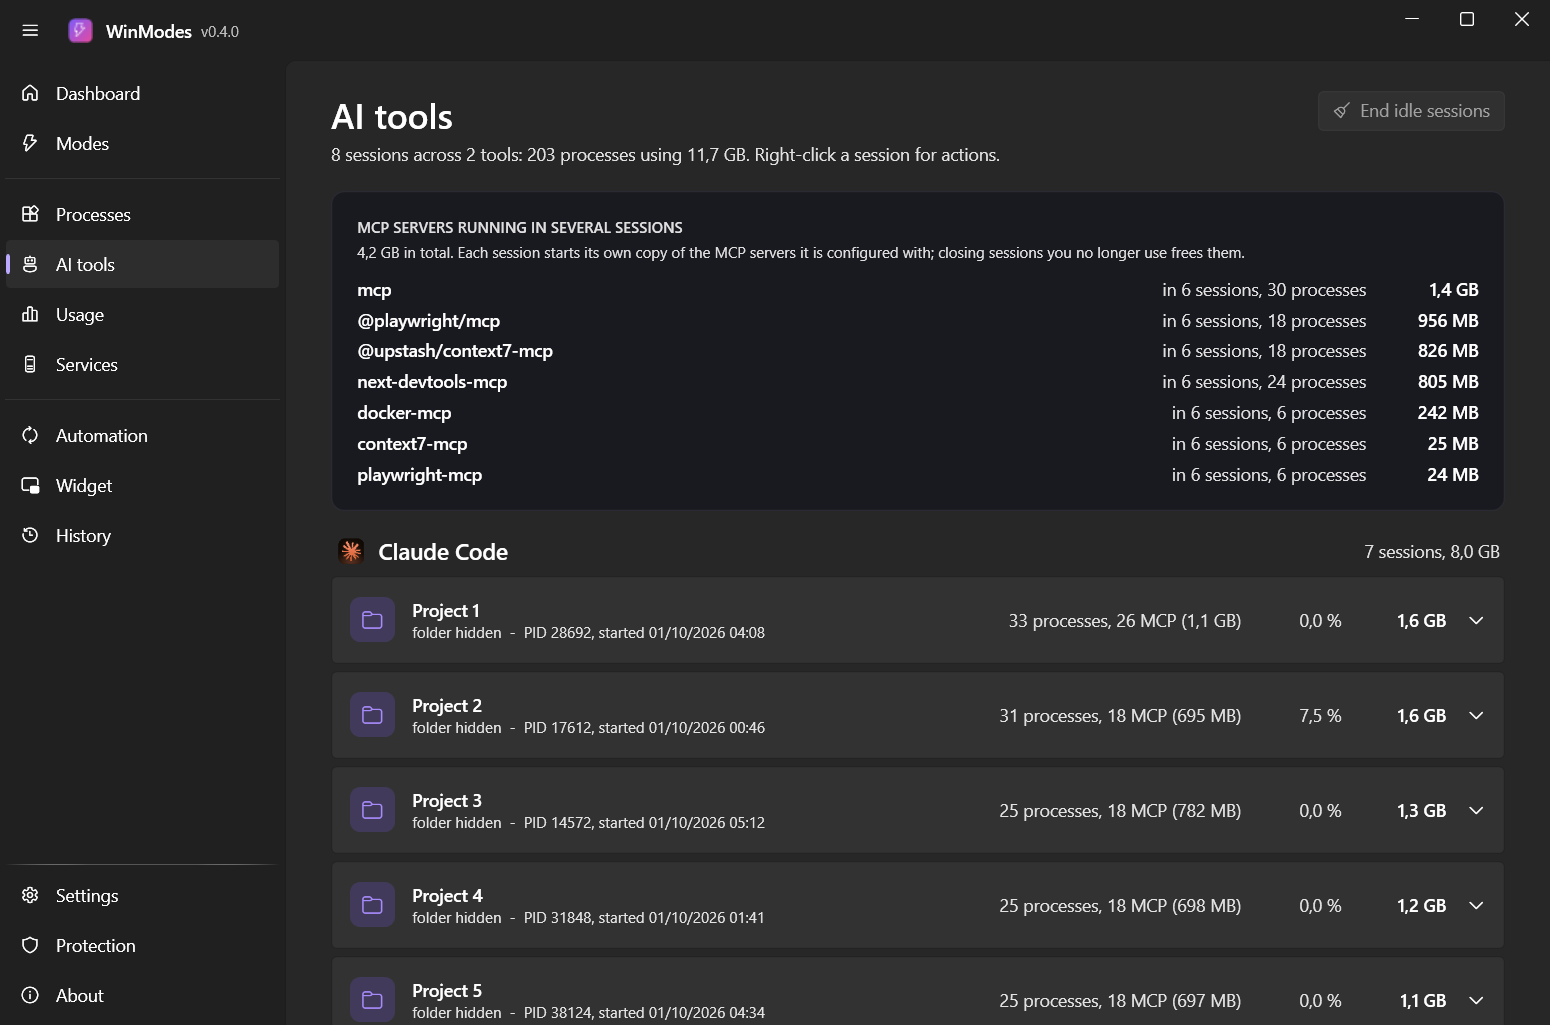
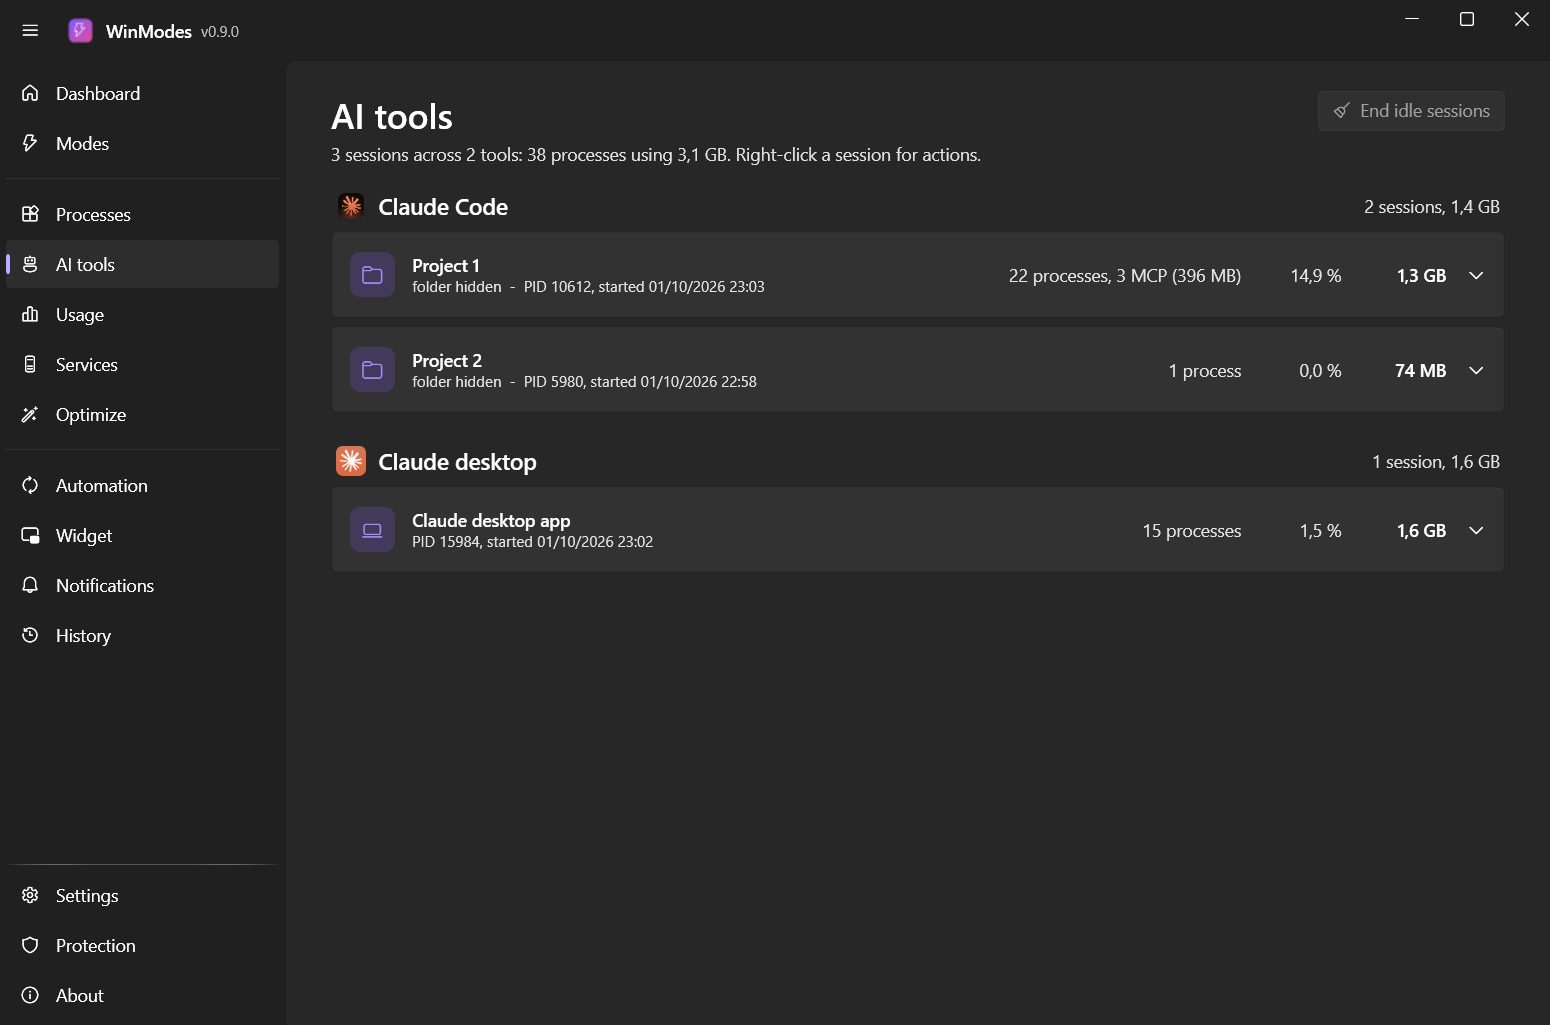
Update the README and the screenshots for 0.9
New screenshots, taken in privacy mode, of the Optimize, Usage, Notifications and About
pages, of the Widget plan usage settings and of the hover cards on the taskbar widget; the
other pages are taken again. The text now covers the plan usage, the hover cards, the token
statistics, the notifications, the signed updates and the support file, and drops two
limitations that are no longer true.

diff --git a/README.md b/README.md
@@ -4,6 +4,8 @@ Reversible Windows 11 modes for coding, work and gaming.
 
 WinModes switches your PC between modes (Code, Work, Game) to free memory and cut background load, without the usual damage of "debloat" tools: nothing is uninstalled, no security feature is weakened, and every switch can be undone.
 
+It also watches the AI coding tools you run: what each one costs in memory, how much of your Claude Code and Codex plans is left, and how many tokens they used.
+
 ![Dashboard](images/dashboard.png)
 
 > **Status: early version.** It works on the author's machine and is covered by automated tests, but it has not been tested on many PCs. Read [Safety](#safety) before activating a mode.
@@ -20,17 +22,26 @@ WinModes switches your PC between modes (Code, Work, Game) to free memory and cu
 - **AI tools page**: every running session of Claude Code, Claude desktop, Codex, Cursor, VS Code and others, with the project folder it works in and all the processes it started.
 - **Services page**: search, filters, real app icons, and a lock on everything that is protected; a right-click starts, stops or changes the start type of a service that is not protected.
 - **Optimize page**: 28 Windows settings by category (privacy and telemetry, ads and suggestions, search and AI, gaming, background, Explorer) and the services worth starting only when needed. Each row shows whether it is already applied on your PC and how many of 12 surveyed open-source optimizers ship the same setting. You choose what to apply; WinModes records the current value first and Undo puts it back. Settings that weaken security or updates are not in the catalog and are refused by the engine. Nothing is uninstalled or deleted.
-- **Usage page** (optional, off by default): how much memory each AI tool used per project over the last day, week or month. Stored on your PC only.
+- **Usage page** (optional, off by default): the **tokens** Claude Code and Codex used (total, new input, output, cache, per day, per model and per project) and how much **memory** each AI tool held per project, over the last day, week or month. The tokens are counted from the usage figures in the logs of the two tools, never from the text of a conversation; everything stays on your PC.
 - **MCP servers in double**: the AI tools page shows the MCP servers that several sessions each started, and the memory they hold together.
 - **Idle sessions**: flagged after 30 minutes without CPU use; end them by hand, or let WinModes do it after a delay you choose (off by default).
 - **Automation** (optional, off by default): rules such as "when `cs2.exe` runs, activate Game mode", "on battery, activate Work mode" or "from 09:00 to 18:00, activate Code mode", undone when the rule no longer applies.
-- **Tray meter and desktop widget** (both optional): the notification-area icon can show the memory used by AI tools, and a small panel on the desktop shows CPU, memory, network and AI tools. The Widget page sets its content, size, opacity and position, with a live preview; the widget can be one compact line, show small graphs, and hide during full-screen apps.
+- **Taskbar and desktop widget** (both optional): a small panel next to your app icons (or on the desktop) shows the active mode, CPU, memory, network, the memory used by AI tools and the **plan usage of Claude Code and Codex**: 5 hour and weekly limits, the weekly limit of a model that has its own, and the limit resets kept in reserve. It uses the free room of the taskbar whether the icons are centred or on the left, shows less when there is little room, follows an auto-hide taskbar and can hide during full-screen apps. The notification-area icon can also show the memory used by AI tools.
+- **Hover cards**: rest the mouse on Claude, Codex or the AI tools figure and a card opens after a moment with each limit, a coloured bar and the time it resets, or with what each AI tool uses. It never takes the mouse or the focus.
+- **Plan usage, read reliably**: from the status line of Claude Code and the files of Codex, or online. Signing in to a "WinModes account" in your browser gives a session of its own, renewed by itself, that never touches the sign-in of the tools. If the usage does not appear, the *Check Claude Code* and *Check Codex* buttons say what is missing.
+- **Notifications** (all optional, with a master switch and quiet hours): a plan limit running low, reached, available again or a limit reset added to your reserve; the memory of AI tools; an idle session ended; a mode switch; a new release; a sign-in that expired. Each one is sent once per cycle and remembered across restarts, so a limit left at 0 % does not ring at every start.
 - **Privacy mode**: hides project names, folders, command-line details and your account name, for screen sharing and screenshots.
-- **Updates**: WinModes checks the GitHub releases at startup (can be turned off); an installed copy can download the new installer, check it against the release checksum and start it.
-- **Report**: export a snapshot of the PC (program names and totals only) to ask for help.
+- **Updates**: WinModes checks the GitHub releases at startup (can be turned off); an installed copy can download the new installer, check it against the release checksums and start it. Releases from 0.9.0 on are **signed**: the checksum list carries a signature that only the maintainer can make, and the app refuses an update that is unsigned or wrongly signed.
+- **Report and support file**: export a snapshot of the PC (program names and totals only) to ask for help, or create a zip to attach to a bug report (version, facts about the PC, your settings and the error logs, with your user name, PC name, e-mail addresses and anything that looks like a key taken out). Nothing is sent.
 - **Dark and light themes**.
 - **Four languages**: English (default), French, Spanish and Italian, chosen on the Settings page.
-- **Welcome guide** on first run, and a **Settings** page: start with Windows, start minimized, keep running in the notification area, shortcuts, memory alert, WSL memory limit.
+- **Welcome guide** on first run, and a **Settings** page: start with Windows (WinModes warns you if that entry points to a file that no longer exists), start minimized, keep running in the notification area, shortcuts, WSL memory limit.
+
+### The taskbar widget and its cards
+
+![The widget on the taskbar and the cards that open when the mouse rests on it](images/hover-cards.png)
+
+### Pages
 
 | Modes | AI tools |
 |---|---|
@@ -40,13 +51,25 @@ WinModes switches your PC between modes (Code, Work, Game) to free memory and cu
 |---|---|
 | ![Processes](images/processes.png) | ![Services](images/services.png) |
 
-| Automation | Widget |
+| Optimize | Usage |
 |---|---|
-| ![Automation](images/automation.png) | ![Widget](images/widget.png) |
+| ![Optimize](images/optimize.png) | ![Usage, with the tokens used](images/usage.png) |
 
-| Welcome guide | Settings |
+| Automation | Notifications |
 |---|---|
-| ![Welcome guide](images/welcome.png) | ![Settings](images/settings.png) |
+| ![Automation](images/automation.png) | ![Notifications](images/notifications.png) |
+
+| Widget | Widget, plan usage |
+|---|---|
+| ![Widget](images/widget.png) | ![Widget, plan usage of Claude Code and Codex](images/widget-plans.png) |
+
+| Settings | About |
+|---|---|
+| ![Settings](images/settings.png) | ![About](images/about.png) |
+
+| Welcome guide |
+|---|
+| ![Welcome guide](images/welcome.png) |
 
 ## Safety
 
@@ -68,11 +91,11 @@ Other rules enforced by the engine:
 Known limitations:
 
 - **Work and Game modes shut down WSL and Docker Desktop.** Running containers and WSL sessions end. Undo does not restart them, and it does not reopen closed apps.
-- **The packages are not code-signed yet.** Windows SmartScreen warns on first launch ("Windows protected your PC"); choose *More info*, then *Run anyway*, or build from source.
+- **The packages are not code-signed with a Windows certificate yet.** Windows SmartScreen warns on first launch ("Windows protected your PC"); choose *More info*, then *Run anyway*, or build from source. The updates themselves are checked by WinModes with its own signature, see Updates above.
 - **Portable and development builds are not hardened.** There, the elevated helper reads the protected list and the profiles from the app folder, which any program running as you could modify. The installer puts the protected list under Program Files, where changing it needs administrator rights; only the mode profiles stay editable, and the protected list is enforced whatever a profile says.
-- Automatic switching still shows the Windows permission prompt at each switch.
+- Automatic switching shows the Windows permission prompt at each switch, unless you turn on the silent switch, which is available only when WinModes is installed with its setup program.
+- Plan usage depends on what Anthropic and OpenAI let other programs read, and neither documents it for third parties: it can stop working without notice. WinModes then asks less and less often instead of insisting.
 - The profiles in `profiles/` were generated for one machine (an HP OMEN laptop). Generate your own, see below.
-- The interface is in English only.
 
 ## Download
 
@@ -83,6 +106,7 @@ From the [Releases page](https://github.com/LinkPhoenix/winmodes/releases):
 | `WinModes-vX.Y.Z-setup-win-x64.exe` | Installer. Installs into Program Files, adds a Start menu entry and an uninstaller. Uninstalling first undoes the active mode. |
 | `WinModes-vX.Y.Z-portable-win-x64.zip` | Portable. Extract anywhere and run `WinModes.exe`; nothing is installed. |
 | `SHA256SUMS.txt` | Checksums of both files. |
+| `SHA256SUMS.txt.sig` | Signature of the checksums, checked by the app before it installs an update. |
 
 Neither needs the .NET runtime. See the [changelog](CHANGELOG.md).
 
@@ -132,7 +156,9 @@ List the changes under **Unreleased** in `CHANGELOG.md`, then:
 pwsh -NoProfile -File tools/release.ps1 -Bump minor
 ```
 
-The script runs the tests, updates the version and the changelog, commits, tags and pushes. The release workflow then builds the installer and the portable zip and publishes the GitHub release. Add `-DryRun` to preview without changing anything.
+The script runs the tests, updates the version and the changelog, commits, tags and pushes. The release workflow then builds the installer and the portable zip, signs the checksums and publishes the GitHub release. Add `-DryRun` to preview without changing anything.
+
+Releases are signed with an ECDSA P-256 key. The public key is committed in `src/WinModes.Core/Updates/update-public-key.pem` and built into the app; the private key is never in the repository and is read from the GitHub secret `WINMODES_UPDATE_KEY`. `tools/new-update-key.ps1` creates a pair, and `tools/package.ps1` refuses to build a release without the private key once the public key exists.
 
 To build the packages locally (the installer needs [Inno Setup](https://jrsoftware.org/isinfo.php) 6 or 7):
 
@@ -147,11 +173,13 @@ pwsh -NoProfile -File tools/package.ps1 -Version 0.3.0
 | `src/WinModes.Core` | Profiles, protection policy, planner, journaled engine |
 | `src/WinModes.App` | WPF app (WPF-UI), dashboard and pages |
 | `src/WinModes.Elevated` | Helper that applies service changes with administrator rights |
+| `src/WinModes.StatusLine` | Tiny program Claude Code runs as its status line, to record the usage of your plan for the widget |
 | `src/WinModes.Cli` | Read-only command line |
 | `tests/` | xUnit tests; the engine is tested against fake services |
 | `data/` | Knowledge base and protection blocklist |
 | `profiles/` | Generated mode profiles and the hand-edited `modes.manual.json` |
 | `installer/` | Inno Setup script |
+| `tools/` | Scripts to build the profiles, package, sign and release, and to check the interface |
 | `research/` | Study of other optimizers and UI research |
 
 ## Support
